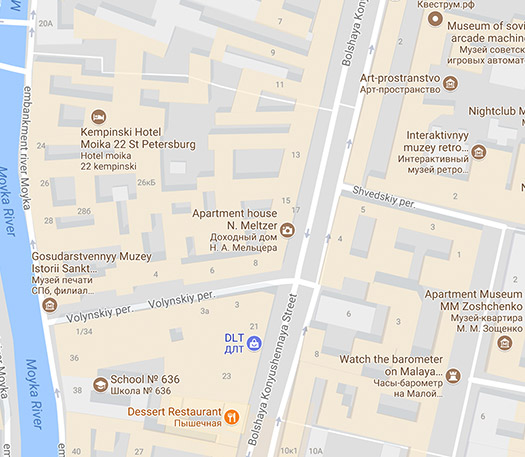
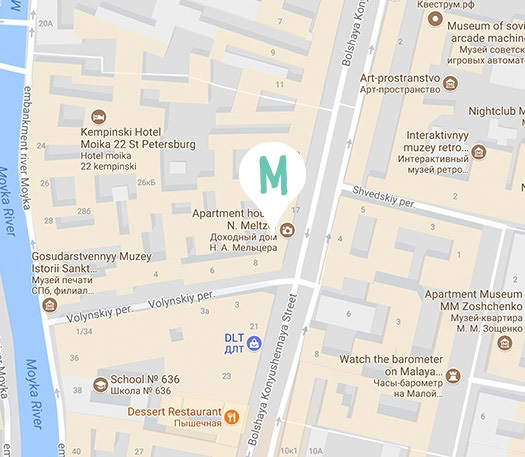
Improve map in section contacts

Changed region(s): [[0.4571, 0.3063, 0.6095, 0.5208], [0.2438, 0.8884, 0.4571, 0.9497], [0.4267, 0.7352, 0.5181, 0.7659]]

diff --git a/source/index.html b/source/index.html
@@ -9,7 +9,7 @@
 </head>
 
 <body>
-  <!-- Для скрытия меню и смены иконки в кнопке добавить класс page-header--collapsed -->
+  <!-- Для скрытия меню и смены иконки в кнопке добавить класс page-header--collapsed. Для илициализации js убрать класс page-header-nojs -->
   <header class="page-header page-header--nojs">
     <nav class="page-header__nav">
       <div class="page-header__logo">
@@ -197,13 +197,11 @@
             </p>
           </li>
         </ul>
-        <div class="contacts__map">
-          <!-- <picture>
-            <source media="(min-width: 1150px)" srcset="img/map-desktop@1x.jpg">
-            <source media="(min-width: 768px)" srcset="img/map-tablet@1x.jpg">
-            <img class="contacts__map-image" src="img/map-mobile@1x.jpg"
-              alt="Наш магазин по адресу ул. Большая Конюшенная, д. 19/8, Санкт-Петербург">
-          </picture> -->
+        <div class="contacts__map-container">
+          <iframe class="contacts__map"
+            src="https://www.google.com/maps/embed?pb=!1m18!1m12!1m3!1d1998.6036253056511!2d30.320853351388983!3d59.93871916896556!2m3!1f0!2f0!3f0!3m2!1i1024!2i768!4f13.1!3m3!1m2!1s0x4696310fca145cc1%3A0x42b32648d8238007!2z0JHQvtC70YzRiNCw0Y8g0JrQvtC90Y7RiNC10L3QvdCw0Y8g0YPQuy4sIDE5LzgsINCh0LDQvdC60YIt0J_QtdGC0LXRgNCx0YPRgNCzLCAxOTExODY!5e0!3m2!1sru!2sru!4v1589561187524!5m2!1sru!2sru"
+            width="100%" height="457" frameborder="0" style="border:0;" allowfullscreen="" aria-hidden="false"
+            aria-label="Наш магазин по адресу ул. Большая Конюшенная, д. 19/8, Санкт-Петербург" tabindex="0"></iframe>
         </div>
         <div class="contacts__footer">
           <a class="contacts__button button" href="mailto:info@mimimishkashop.ru">

diff --git a/source/sass/blocks/contacts.scss b/source/sass/blocks/contacts.scss
@@ -32,7 +32,7 @@
   margin-right: 32px;
 }
 
-.contacts__map {
+.contacts__map-container {
   height: 457px;
   margin-top: 37px;
   line-height: 0;
@@ -43,9 +43,17 @@
     left: 0;
     width: 100%;
     height: 457px;
-    background: #dfdfdf url("../img/map-desktop@1x.jpg") no-repeat center;
+    background: #dfdfdf url("../img/map-tablet@1x.jpg") no-repeat center;
     background-size: cover;
+    background-repeat: no-repeat;
   }
+}
+
+.contacts__map {
+  position: absolute;
+  content: "";
+  left: 0;
+  z-index: 100;
 }
 
 .contacts__button {
@@ -117,12 +125,16 @@
     }
   }
 
-  .contacts__map {
+  .contacts__map-container {
     position: absolute;
     top: 0;
     right: 0;
     width: 525px;
     height: 457px;
+
+    &::before {
+      background-image: url("../img/map-desktop@1x.jpg");
+    }
   }
 
   .contacts__footer {

diff --git a/source/catalog.html b/source/catalog.html
@@ -9,7 +9,7 @@
 </head>
 
 <body>
-  <!-- Для скрытия меню и смены иконки в кнопке добавить класс page-header--collapsed -->
+  <!-- Для скрытия меню и смены иконки в кнопке добавить класс page-header--collapsed. Для илициализации js убрать класс page-header-nojs -->
   <header class="page-header page-header--inner-page page-header--nojs">
     <nav class="page-header__nav">
       <div class="page-header__logo">
